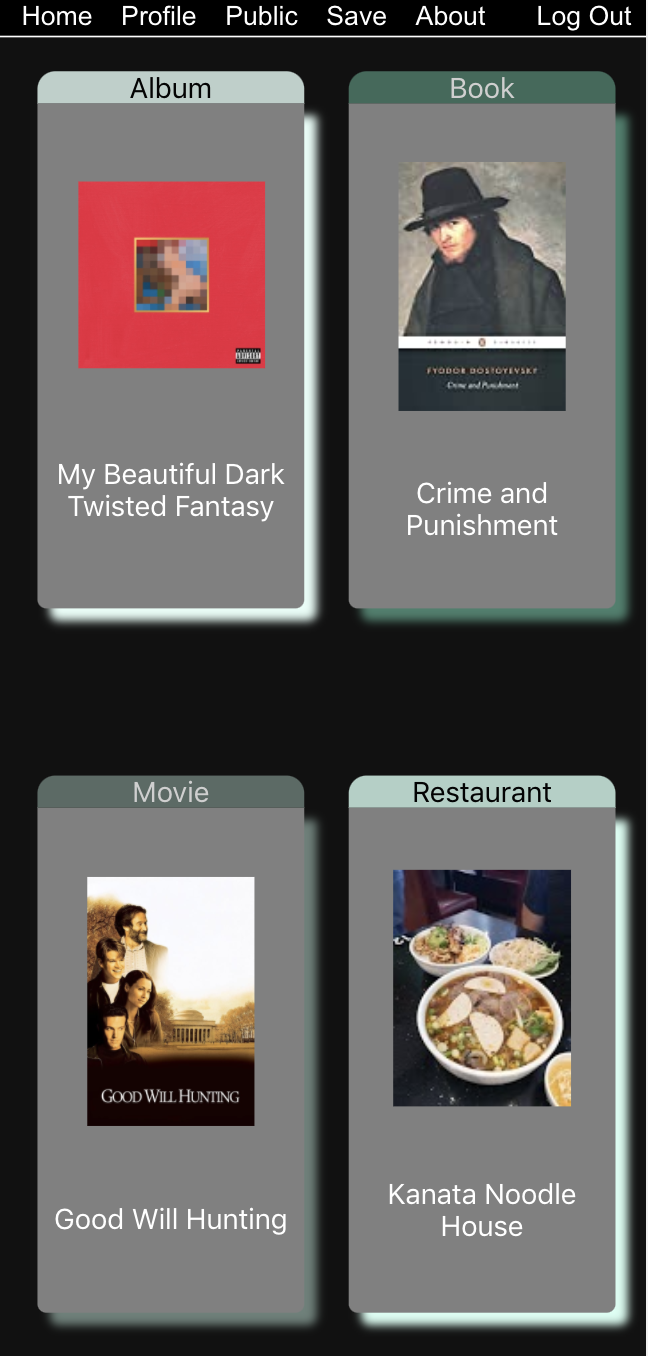
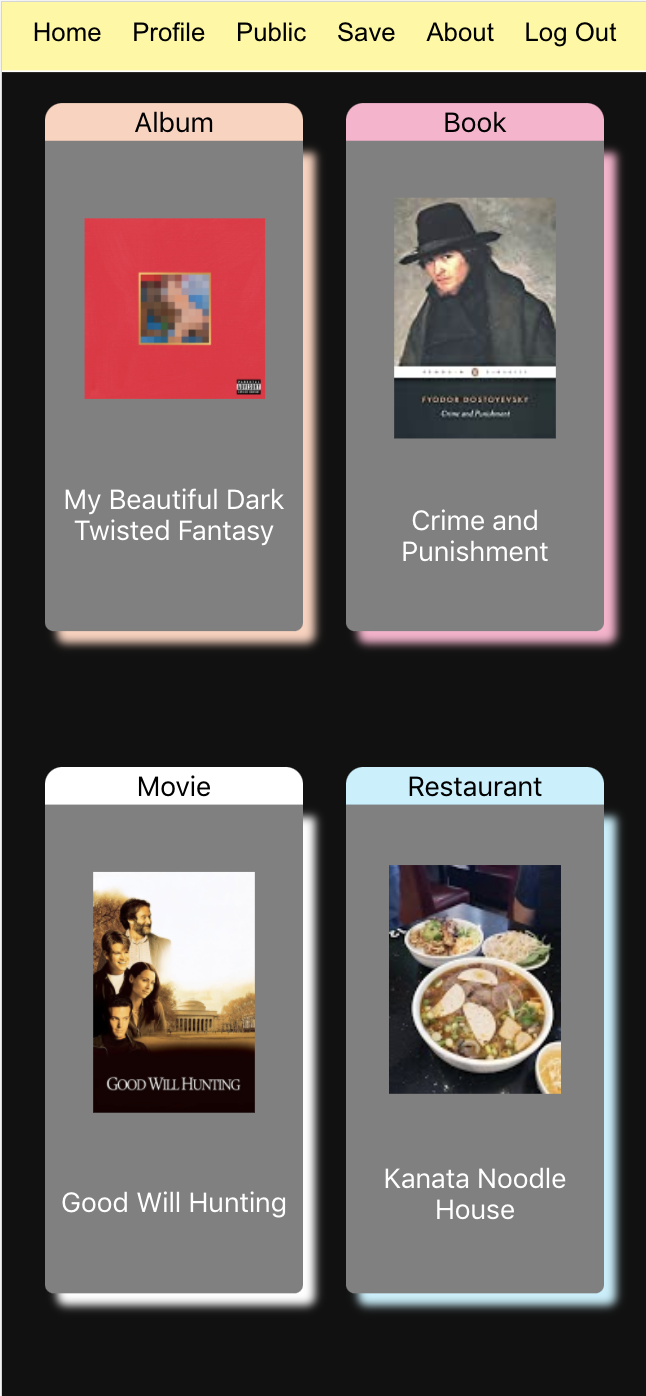
updated screenshots

diff --git a/src/components/Profile.js b/src/components/Profile.js
@@ -134,7 +134,7 @@ const Profile = (props) => {
               className="profileSaveButton"
               onClick={() => props.saveData()}
             >
-              save
+              Save
             </button>
           </Link>
         </div>

diff --git a/src/components/Profile.css b/src/components/Profile.css
@@ -9,7 +9,7 @@
   overflow-wrap: break-word;
   text-align: center;
 
-  border: solid 2px rgb(248, 154, 60);
+  border: solid 2px black;
   border-radius: 20px;
 
   display: grid;
